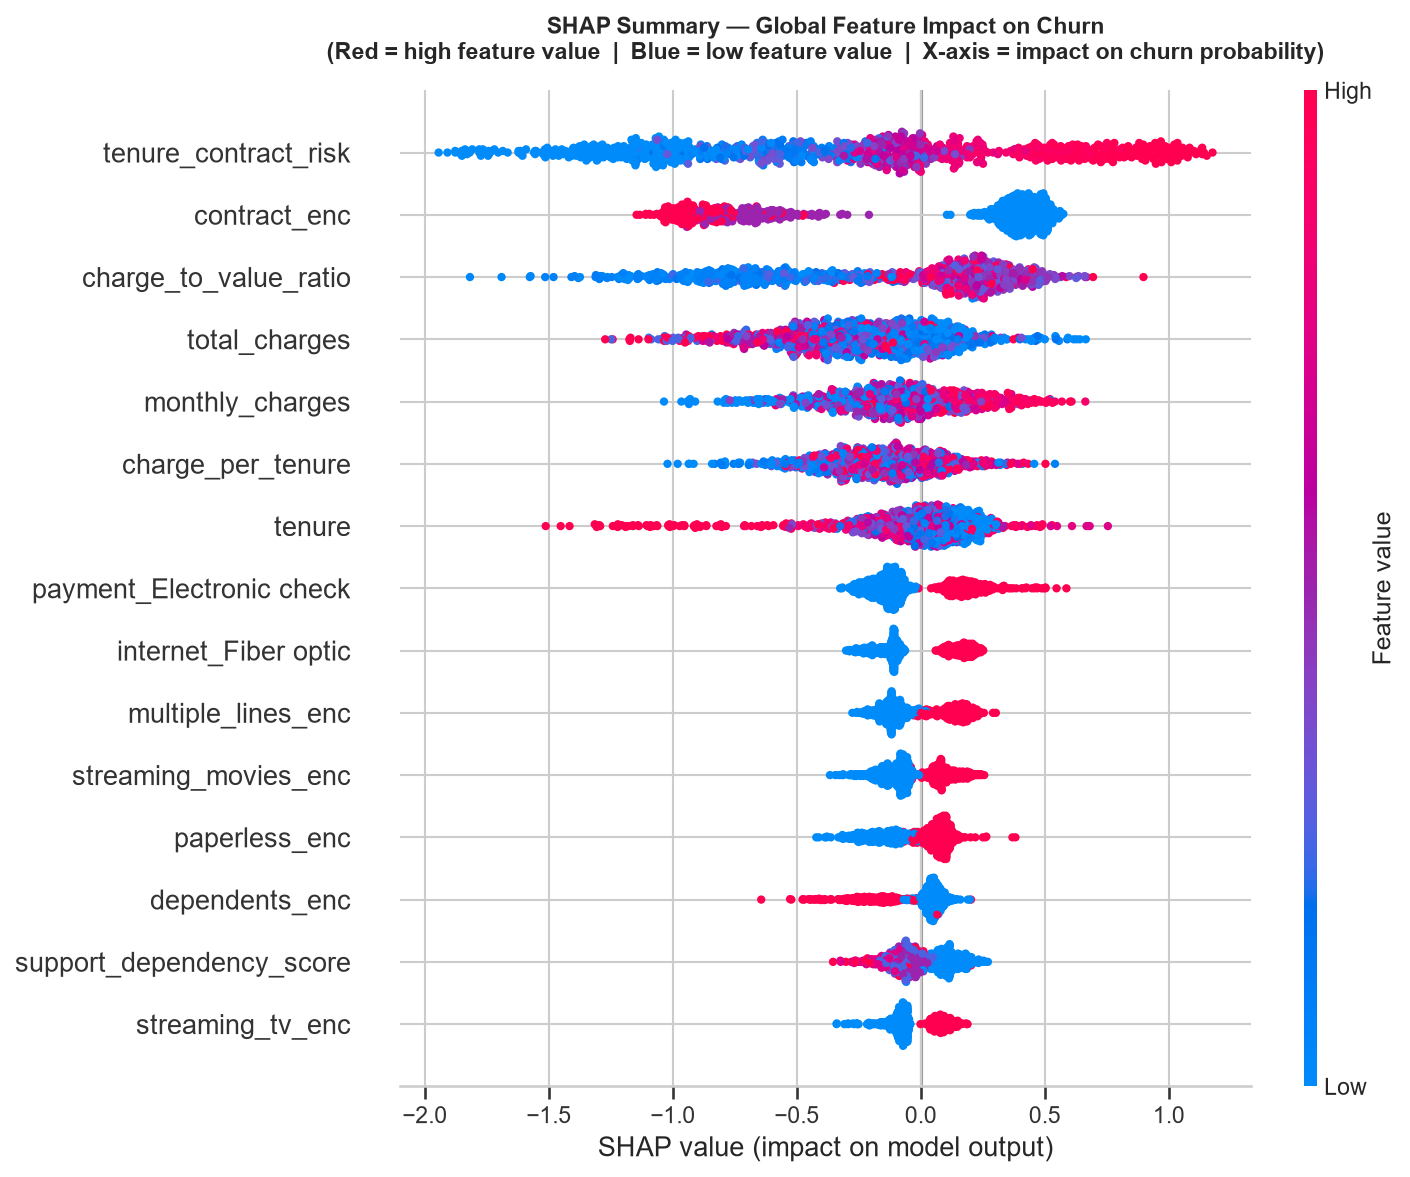
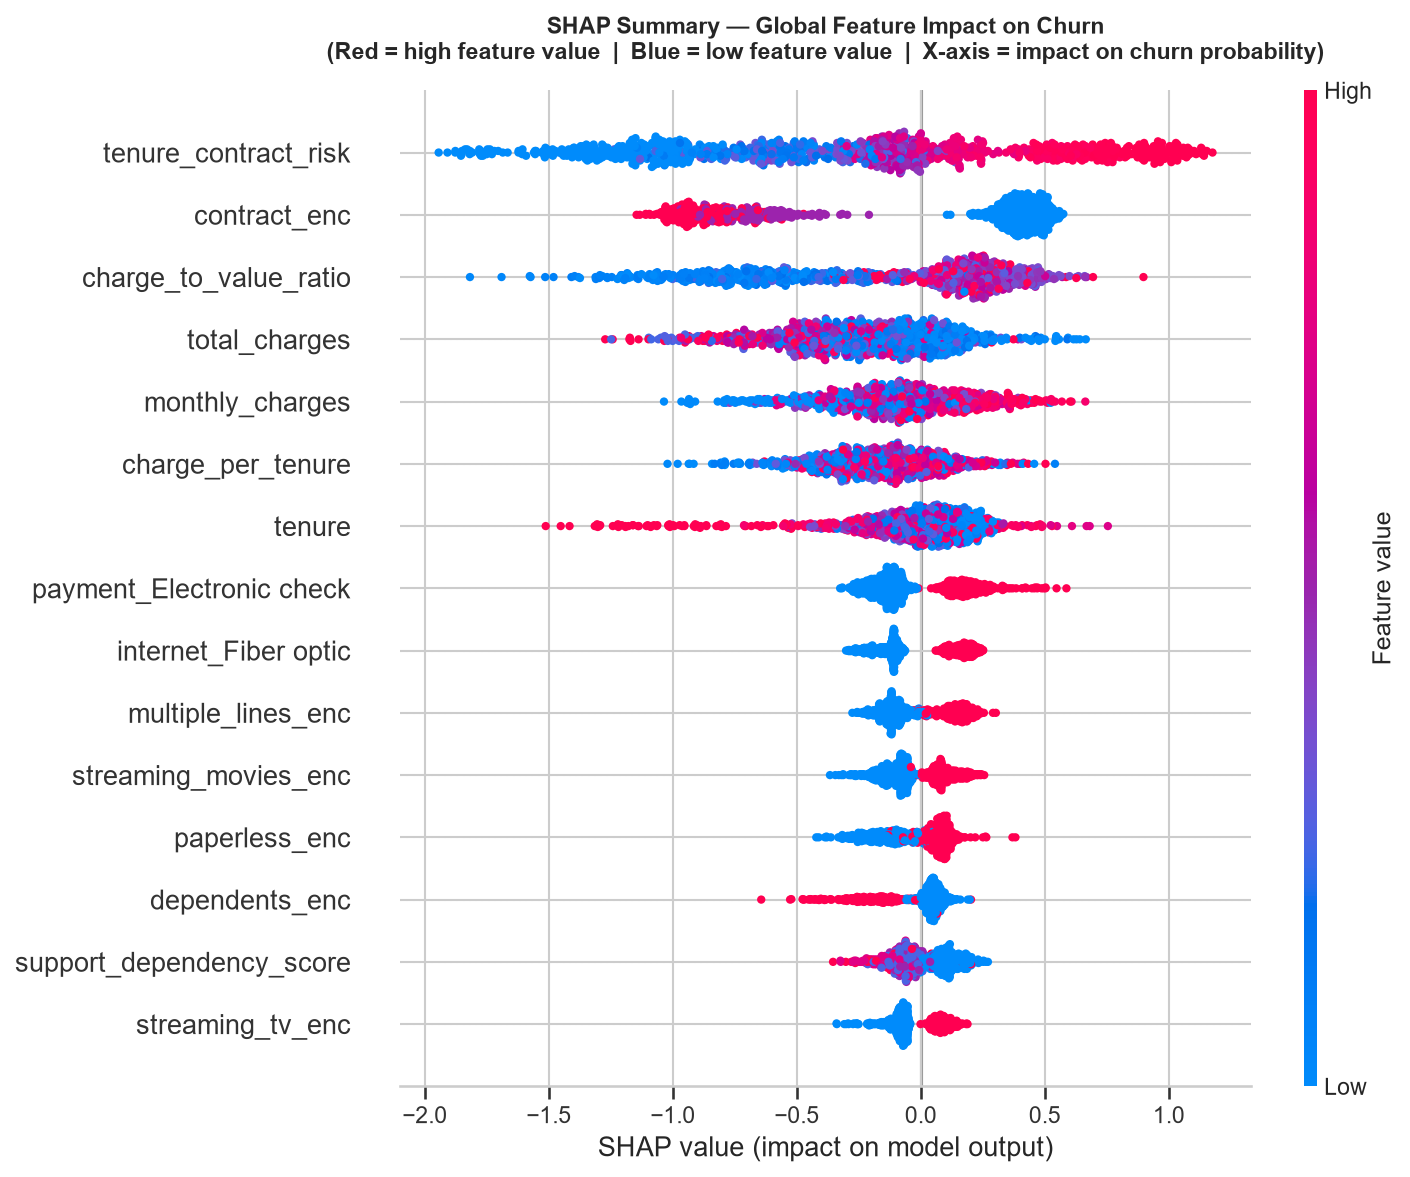
docker containerisation

diff --git a/README.md b/README.md
@@ -264,7 +264,27 @@ main.py  →  app/routers/single.py   (single-customer endpoints)
 uvicorn main:app --reload
 # Swagger UI → http://localhost:8000/docs
 ```
+## 🐳 Running with Docker
 
+### Prerequisites
+- Docker Desktop installed and running
+
+### Start all services
+```bash
+docker compose up --build
+```
+
+### Access points
+| Service | URL |
+|---------|-----|
+| FastAPI | http://localhost:8000 |
+| Swagger UI | http://localhost:8000/docs |
+| PostgreSQL | localhost:5433 |
+
+### Stop all services
+```bash
+docker compose down
+```
 ---
 
 ## 📈 Key Business Findings